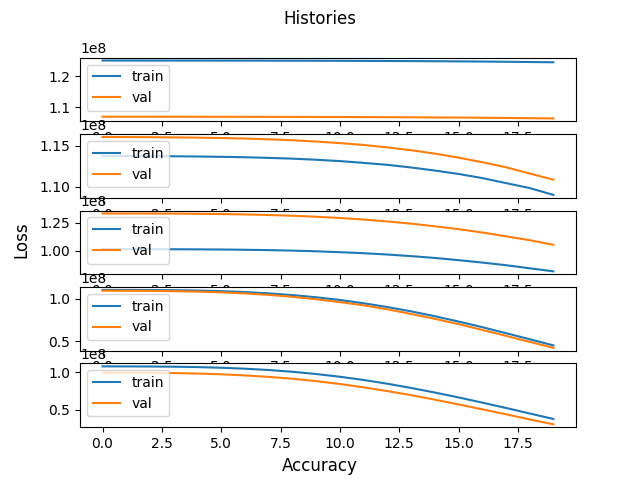
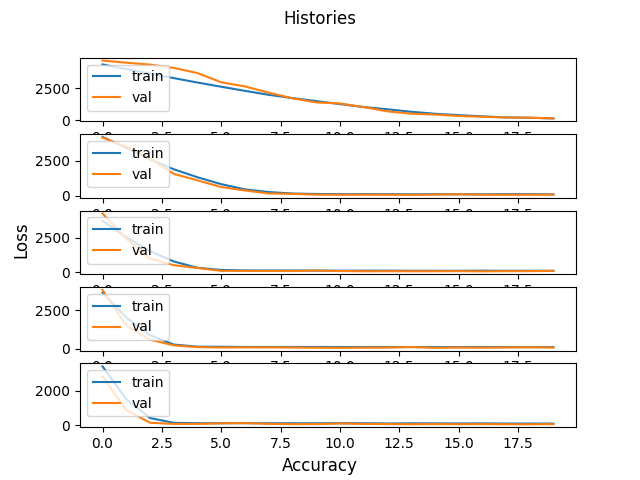
Better model

diff --git a/tn_nn.py b/tn_nn.py
@@ -11,7 +11,9 @@ np.set_printoptions(precision=3, suppress=True)
 import matplotlib.pyplot as plt
 
 from sklearn.model_selection import train_test_split
+from sklearn.preprocessing import MinMaxScaler
 from tensorflow.keras import layers
+from tensorflow.keras.callbacks import EarlyStopping
 from tensorflow import keras
 
 # LIST_LOCATION = './data/lists_3nodes.txt'
@@ -23,8 +25,8 @@ VERBOSE = False
 TO_FILE = True
 OUTPUT_FILE = 'result.tmp'
 FIG_DIR = 'figs/'
-MULT_FACTOR = [1,10,100,1000]
-DUP_FACTOR = 1
+MULT_FACTOR = [1,2,3,4,5]
+DUP_FACTOR = 10
 TRAIN_SET_PERCENTAGE = [15, 35, 55, 75, 95]
 
 if len(sys.argv) > 1:
@@ -109,11 +111,12 @@ def preprocess():
 
 
 
-def build_and_compile_model(norm):
+def build_and_compile_model():
     model = keras.Sequential([
-        norm,
-        layers.Dense(100, input_dim=4,  activation='relu'),
-        layers.Dense(50, activation='relu'),
+        layers.Dense(64, activation='relu', input_shape=(2,)),
+        layers.BatchNormalization(),
+        layers.Dense(32, activation='relu'),
+        layers.BatchNormalization(),
         layers.Dense(1, activation='linear')
     ])
 
@@ -145,8 +148,7 @@ def train_iter(data_train, full_test, result_train, full_res):
         train_sizes.append((test_sz, len(data_slice)))
 
         # Build model
-        normalizer.adapt(data_slice)
-        dnn_model = build_and_compile_model(normalizer)
+        dnn_model = build_and_compile_model()
 
         # Train
         print("Starting training")
@@ -155,7 +157,10 @@ def train_iter(data_train, full_test, result_train, full_res):
             result_slice,
             validation_split=0.2,
             verbose=VERBOSE,
-            epochs=20)
+            epochs=20,
+            batch_size=32,
+            callbacks=[early_stop]
+        )
         histories.append(history)
         print("Training done!")
 
@@ -184,12 +189,14 @@ def train_iter(data_train, full_test, result_train, full_res):
 print("Loading data...")
 d,r = preprocess()
 print("Data loaded!")
-normalizer = tf.keras.layers.Normalization(axis=-1)
+early_stop = EarlyStopping(monitor='val_loss', patience=10)
+scaler = MinMaxScaler()
+
 
 data_train, full_test, result_train, full_res = train_test_split(d, r, test_size=0.15)
 
 all_percentage_errors, all_full_errors, all_predictions, all_evals, all_train_sizes, all_histories = \
-train_iter(data_train, full_test, result_train, full_res )
+train_iter(scaler.fit_transform(data_train), scaler.transform(full_test), result_train, full_res )
 
 
 # Write out results
